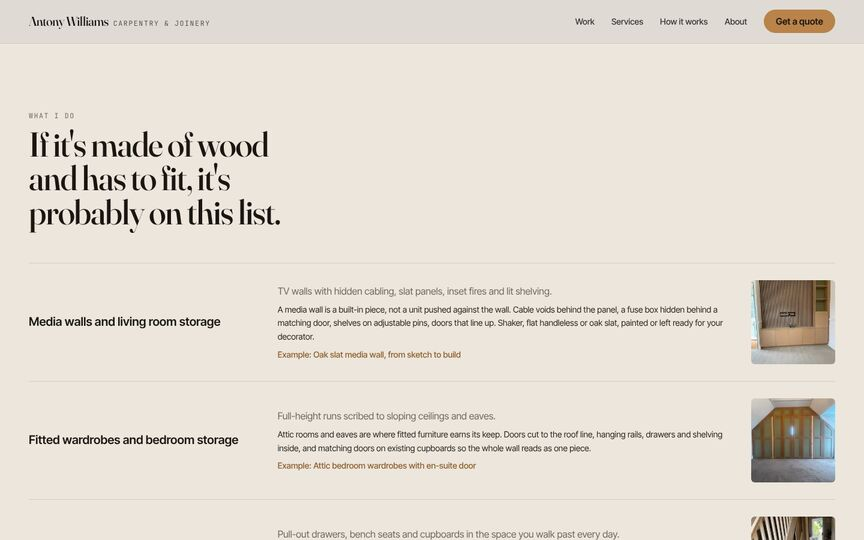
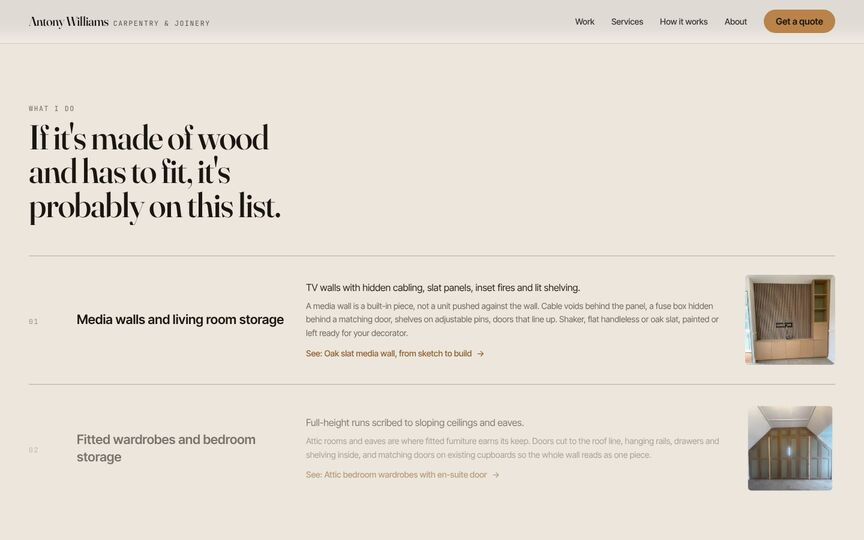
Choreograph the services section; restore featured-project parallax
Services: heading rises word by word out of a clipped line; each row's
rule draws left to right as it enters while the number and title slide
in, the copy fades up and the thumbnail wipes upward with a slow settle;
the row in the middle band of the viewport is lit (full contrast, larger
thumbnail) while the others sit back, so the list reads one item at a
time on a phone. GSAP animates inner spans and clears its inline styles,
so the CSS lit state on the wrappers is never overridden. Mobile layout
no longer forces a second column for the thumbnail.

Featured projects: the parallax target had moved inside the lazy mount
and was null at effect time; it is back on the wrapper.

Claude-Session: https://claude.ai/code/session_01XiUn3sZcnWdCd19ZqBrxMm

diff --git a/src/components/Services.tsx b/src/components/Services.tsx
@@ -1,47 +1,157 @@
+"use client";
+
+import { useRef } from "react";
 import Link from "next/link";
-import Reveal from "@/components/Reveal";
 import Photo from "@/components/Photo";
 import { services, projects } from "@/lib/site";
+import { useGsapEffect, prefersReducedMotion, ease } from "@/lib/motion";
 
 const bySlug = Object.fromEntries(projects.map((p) => [p.slug, p]));
 
-/** Seven services. Each row carries a thumbnail of a real job that shows it. */
+const HEADING = "If it's made of wood and has to fit, it's probably on this list.";
+
+/**
+ * Seven services, each with a thumbnail of a real job that shows it.
+ *
+ * Motion, all scroll-driven and once-only except the last:
+ *   - the heading rises word by word out of a clipped line
+ *   - as each row enters, its rule draws left to right, the number and title slide in,
+ *     the copy fades up and the thumbnail wipes upward from under its own edge
+ *   - the row nearest the middle of the screen is "lit": full-contrast text and a
+ *     slightly larger thumbnail, so the list reads one item at a time on a phone,
+ *     where there is no hover
+ */
 export default function Services() {
+  const root = useRef<HTMLElement>(null);
+
+  useGsapEffect(({ gsap, ScrollTrigger }) => {
+    const el = root.current;
+    if (!el) return;
+    const rows = Array.from(el.querySelectorAll<HTMLElement>("[data-row]"));
+
+    if (prefersReducedMotion()) {
+      rows.forEach((r) => r.classList.add("is-lit"));
+      return;
+    }
+
+    const ctx = gsap.context(() => {
+      // Heading: words rise out of a clip.
+      gsap.from("[data-word] > span", {
+        yPercent: 110,
+        duration: 0.9,
+        ease: ease.out,
+        stagger: 0.045,
+        scrollTrigger: { trigger: "[data-heading]", start: "top 85%", once: true },
+      });
+      gsap.from("[data-eyebrow]", {
+        autoAlpha: 0,
+        y: 10,
+        duration: 0.6,
+        ease: ease.out,
+        scrollTrigger: { trigger: "[data-heading]", start: "top 85%", once: true },
+      });
+
+      rows.forEach((row) => {
+        const rule = row.querySelector("[data-rule]");
+        const lead = row.querySelectorAll("[data-lead]");
+        const copy = row.querySelectorAll("[data-copy]");
+        const thumb = row.querySelector("[data-thumb]");
+        const img = row.querySelector("[data-thumb] img");
+
+        const tl = gsap.timeline({
+          defaults: { ease: ease.out },
+          scrollTrigger: { trigger: row, start: "top 88%", once: true },
+        });
+        // GSAP only ever touches the inner [data-lead]/[data-copy] spans and clears its inline
+        // styles when done, so the CSS "lit" state on the outer wrappers is never overridden.
+        tl.fromTo(rule, { scaleX: 0, transformOrigin: "0 50%" }, { scaleX: 1, duration: 0.9, ease: ease.inOut, clearProps: "transform" }, 0)
+          .from(lead, { x: -18, autoAlpha: 0, duration: 0.7, stagger: 0.06, clearProps: "all" }, 0.1)
+          .from(copy, { y: 14, autoAlpha: 0, duration: 0.7, stagger: 0.06, clearProps: "all" }, 0.2);
+        if (thumb && img) {
+          tl.fromTo(thumb, { clipPath: "inset(100% 0 0 0)" }, { clipPath: "inset(0% 0 0 0)", duration: 0.8, clearProps: "clipPath" }, 0.15)
+            .fromTo(img, { scale: 1.15, yPercent: 8 }, { scale: 1, yPercent: 0, duration: 1.1, clearProps: "all" }, 0.15);
+        }
+
+        // Lit state while the row sits in the middle band of the viewport.
+        ScrollTrigger.create({
+          trigger: row,
+          start: "top 62%",
+          end: "bottom 38%",
+          onToggle: (self) => row.classList.toggle("is-lit", self.isActive),
+        });
+      });
+    }, el);
+    return () => ctx.revert();
+  }, []);
+
   return (
-    <section id="services" aria-labelledby="services-heading" className="bg-bg-deep">
-      <Reveal stagger="[data-row]" className="container py-20 md:py-28">
-        <div data-row className="max-w-[60ch]">
-          <p className="eyebrow text-muted">What I do</p>
+    <section id="services" ref={root} aria-labelledby="services-heading" className="bg-bg-deep">
+      <div className="container py-20 md:py-28">
+        <div data-heading className="max-w-[60ch]">
+          <p data-eyebrow className="eyebrow text-muted">
+            What I do
+          </p>
           <h2 id="services-heading" className="display mt-3 text-[clamp(2rem,5vw,3.6rem)]">
-            If it&apos;s made of wood and has to fit, it&apos;s probably on this list.
+            {HEADING.split(" ").map((w, i) => (
+              <span key={i} data-word className="inline-block overflow-hidden pb-[0.08em] -mb-[0.08em] align-bottom">
+                <span className="inline-block">{w}&nbsp;</span>
+              </span>
+            ))}
           </h2>
         </div>
-        <ul className="mt-10 divide-y divide-line border-y border-line md:mt-14">
-          {services.map((s) => {
+
+        <ul className="mt-10 md:mt-14">
+          {services.map((s, i) => {
             const example = bySlug[s.projects[0]];
             const thumb = example?.images[0];
             return (
-              <li key={s.id} data-row className="grid gap-4 py-6 md:grid-cols-[minmax(0,1fr)_minmax(0,2fr)_140px] md:items-center md:gap-10 md:py-7">
-                <h3 className="text-lg font-semibold leading-snug md:text-xl">{s.name}</h3>
-                <div>
-                  <p className="text-muted">{s.short}</p>
-                  <p className="mt-2 text-sm leading-relaxed text-ink-2">{s.detail}</p>
-                  {example ? (
-                    <Link href={`/work/${example.slug}`} className="mt-2 inline-block text-sm font-medium text-oak-deep underline-offset-4 hover:underline">
-                      Example: {example.title}
+              <li key={s.id} data-row className="svc-row relative">
+                <span data-rule aria-hidden className="absolute inset-x-0 top-0 h-px bg-line-strong" />
+                <div className="grid grid-cols-1 gap-x-5 gap-y-3 py-7 md:grid-cols-[3rem_minmax(0,1fr)_minmax(0,2fr)_150px] md:items-center md:gap-x-8 md:py-8">
+                  <div className="flex items-baseline gap-4 md:contents">
+                    <span className="svc-dim eyebrow text-faint md:pt-1">
+                      <span data-lead className="inline-block">{String(i + 1).padStart(2, "0")}</span>
+                    </span>
+                    <h3 className="svc-dim text-xl font-semibold leading-snug md:text-[1.35rem]">
+                      <span data-lead className="inline-block">{s.name}</span>
+                    </h3>
+                  </div>
+                  <div className="svc-dim md:col-start-3">
+                    <p className="text-ink-2">
+                      <span data-copy className="inline-block">{s.short}</span>
+                    </p>
+                    <p className="mt-2 text-sm leading-relaxed text-muted">
+                      <span data-copy className="inline-block">{s.detail}</span>
+                    </p>
+                    {example ? (
+                      <span data-copy className="inline-block">
+                        <Link
+                          href={`/work/${example.slug}`}
+                          className="mt-3 inline-flex items-center gap-2 text-sm font-medium text-oak-deep underline-offset-4 hover:underline"
+                        >
+                          <span>See: {example.title}</span>
+                          <span aria-hidden className="svc-arrow">→</span>
+                        </Link>
+                      </span>
+                    ) : null}
+                  </div>
+                  {thumb ? (
+                    <Link
+                      href={`/work/${example.slug}`}
+                      data-thumb
+                      className="svc-thumb relative mt-2 aspect-[4/3] w-44 overflow-hidden rounded-[var(--radius)] md:col-start-4 md:mt-0 md:aspect-square md:w-full"
+                      aria-label={`See ${example.title}`}
+                    >
+                      <Photo src={thumb.src} alt="" fill sizes="(min-width: 768px) 150px, 160px" className="object-cover" />
                     </Link>
                   ) : null}
                 </div>
-                {thumb ? (
-                  <Link href={`/work/${example.slug}`} className="relative hidden aspect-square overflow-hidden rounded-[var(--radius)] md:block" aria-hidden tabIndex={-1}>
-                    <Photo src={thumb.src} alt="" fill sizes="140px" className="object-cover" />
-                  </Link>
-                ) : null}
               </li>
             );
           })}
+          <li aria-hidden className="h-px bg-line-strong" />
         </ul>
-      </Reveal>
+      </div>
     </section>
   );
 }

diff --git a/src/components/FeaturedProjects.tsx b/src/components/FeaturedProjects.tsx
@@ -61,8 +61,8 @@ export default function FeaturedProjects() {
             >
               <Link href={`/work/${p.slug}`} className="block" aria-label={`${p.title}: see the job`}>
                 <div className={`relative overflow-hidden ${tall ? "aspect-[4/5] md:aspect-auto md:h-full md:min-h-[720px]" : "aspect-[4/3]"}`}>
-                  <LazyMount className="absolute -inset-y-[10%] inset-x-0">
-                  <div data-img className="absolute inset-0">
+                  <div data-img className="absolute -inset-y-[10%] inset-x-0">
+                  <LazyMount className="absolute inset-0">
                     <Photo
                       src={hero.src}
                       alt={hero.alt}
@@ -70,8 +70,8 @@ export default function FeaturedProjects() {
                       sizes="(min-width: 768px) 50vw, 100vw"
                       className="object-cover transition-transform duration-700 ease-out group-hover:scale-[1.03]"
                     />
-                  </div>
                   </LazyMount>
+                  </div>
                   <div className="absolute inset-0 bg-gradient-to-t from-ink/85 via-ink/20 to-transparent" />
                 </div>
                 <div className="absolute inset-x-0 bottom-0 p-6 md:p-8">

diff --git a/src/app/globals.css b/src/app/globals.css
@@ -134,6 +134,20 @@ body {
 .btn-ghost { color: var(--ink); box-shadow: inset 0 0 0 1px var(--line-strong); }
 .btn-ghost:hover { background: var(--bg-deep); }
 
+/* Services list: the row in the middle band of the screen is lit, the rest sit back. */
+.svc-row .svc-dim { opacity: 0.55; transition: opacity 500ms ease; }
+.svc-row .svc-thumb { transform: scale(0.94); filter: saturate(0.6); transition: transform 600ms cubic-bezier(0.2, 0.7, 0.2, 1), filter 600ms ease; }
+.svc-row .svc-arrow { display: inline-block; transition: transform 300ms ease; }
+.svc-row.is-lit .svc-dim { opacity: 1; }
+.svc-row.is-lit .svc-thumb { transform: scale(1); filter: saturate(1); }
+.svc-row:hover .svc-dim { opacity: 1; }
+.svc-row:hover .svc-thumb { transform: scale(1.03); filter: saturate(1); }
+.svc-row:hover .svc-arrow { transform: translateX(4px); }
+@media (prefers-reduced-motion: reduce) {
+  .svc-row .svc-dim { opacity: 1; }
+  .svc-row .svc-thumb { transform: none; filter: none; }
+}
+
 /* Hero entrance: pure CSS so the first paint never waits for JavaScript.
    fill-mode backwards keeps the start state only during the delay, so GSAP can
    drive opacity afterwards without the animation overriding it. */
